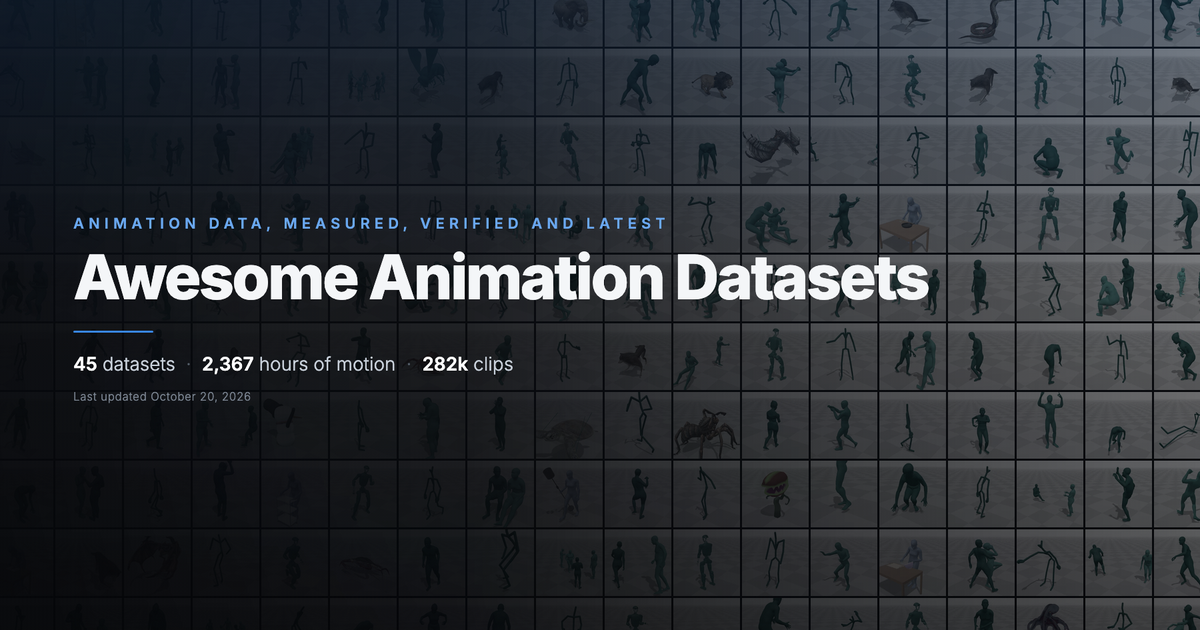
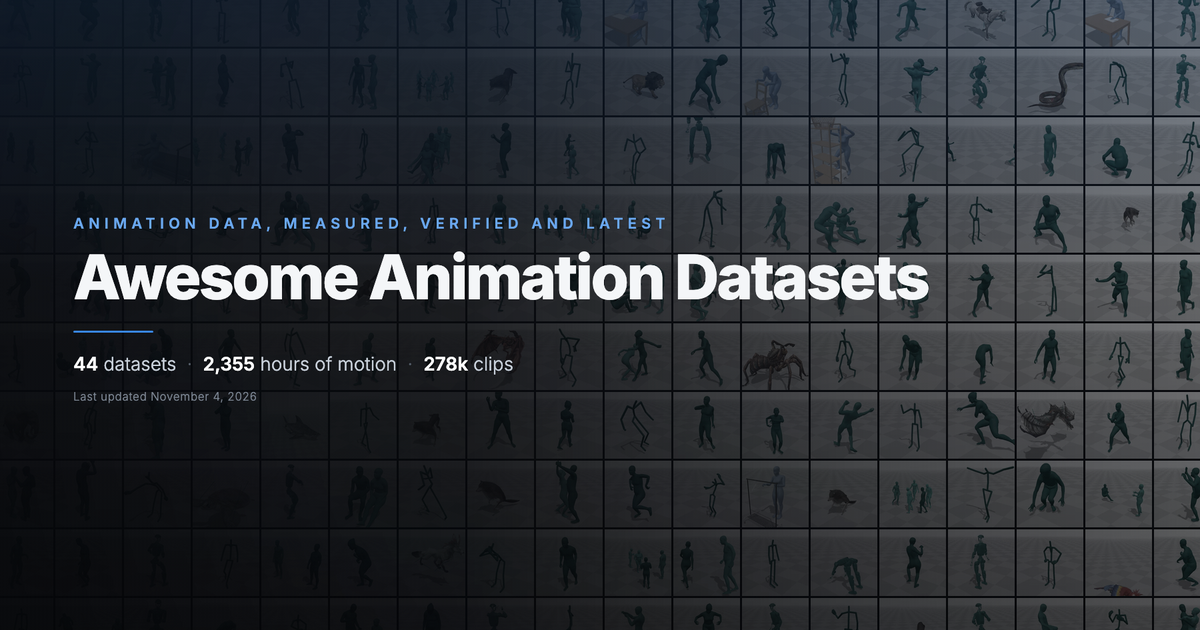
Social card with current numbers; the update loop rebuilds it

diff --git a/.claude/skills/update-animation-datasets/SKILL.md b/.claude/skills/update-animation-datasets/SKILL.md
@@ -44,7 +44,7 @@ config.local.yaml         machine paths: vault, sources, blender, chrome, deploy
 python -m tools.validate                 # registry + example specs + generated pages up to date
 python -m tools.examples.bake <id>       # only if examples changed (add --thumbs to render the cards)
 python -m tools.readme                   # README stats/tables, charts, docs/categories/*.md
-python -m tools.banner                   # README header: new text + date over the saved tile wall (--background rebuilds it, --social the still card)
+python -m tools.banner --social          # README header + the Space / link-preview card: new numbers and date over the saved tile wall (--background rebuilds the wall)
 python -m tools.validate                 # must print "... ok" and "README and docs are up to date"
 ```
 
